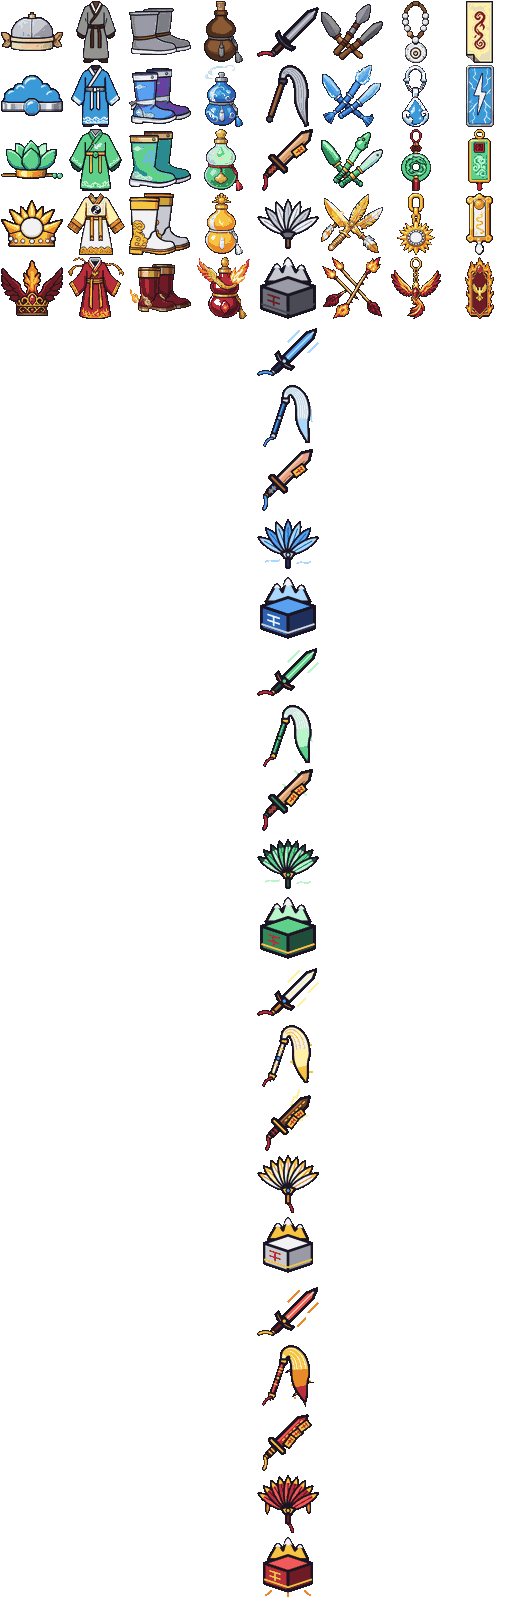
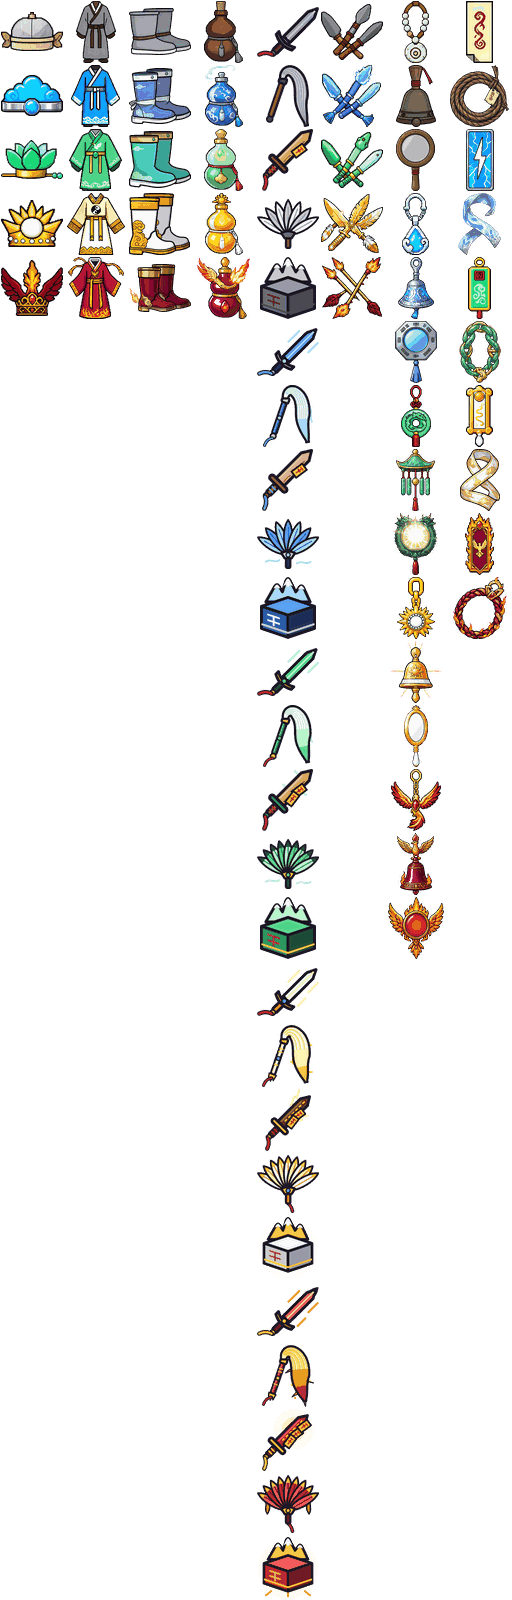
Bells, binding ropes and mirrors as Accessory and Charm families (#45)
- Accessories roll a family as well as a grade: Pendant, Bell or Mirror.
  Charms roll Talisman or Binding Rope. The family changes only the name
  and icon; stats, affixes, slots and drop rates are unchanged, and the
  roll draws the same random numbers as before.
- 15 new icons in the source art style, one per new name.
- The icon atlas keeps the source art: it is saved in 256 colours picked
  from the icons themselves instead of the shared palette, which had
  posterized every item icon. The whole atlas is rebuilt from sources.
- Old saves load with their current names; retired names still become
  the Pendant or Talisman of their grade. New names load only on their
  own type and grade; look-alike and hostile names are rejected.
- docs/design.md §6 and §14 updated.

diff --git a/src/core/loot.test.ts b/src/core/loot.test.ts
@@ -170,26 +170,42 @@ describe('rollItem', () => {
     );
   });
 
-  it('names every type but weapons by grade: one name each, in grade order', () => {
-    const types = [
-      'head',
-      'chest',
-      'boots',
-      'attachment',
-      'sideArm',
-      'accessory',
-      'charm',
-    ] as const;
+  it('names every type but weapons by grade, one name per family, in grade order', () => {
+    const families = {
+      head: 1,
+      chest: 1,
+      boots: 1,
+      attachment: 1,
+      sideArm: 1,
+      accessory: 3,
+      charm: 2,
+    } as const;
     // With weapons, that is every type.
-    expect([...types, 'weapon'].sort()).toEqual(Object.keys(SLOTS).sort());
-    for (const slot of types) {
-      for (const g of GRADE_IDS) expect(namesFor(slot, g)).toHaveLength(1);
+    expect([...Object.keys(families), 'weapon'].sort()).toEqual(Object.keys(SLOTS).sort());
+    for (const [slot, n] of Object.entries(families) as [keyof typeof families, number][]) {
+      for (const g of GRADE_IDS) expect(namesFor(slot, g)).toHaveLength(n);
       expect(SLOTS[slot].names).toEqual(GRADE_IDS.flatMap((g) => namesFor(slot, g)));
+      expect(new Set(SLOTS[slot].names).size).toBe(n * GRADE_IDS.length);
+      // Seeded: every grade rolls every one of its names, and only those.
       for (const g of GRADE_IDS) {
         const seen = MANY.filter((i) => i.slot === slot && i.grade === g).map((i) => i.name);
         expect(seen.length, `${slot} ${g}`).toBeGreaterThan(0);
-        expect(new Set(seen)).toEqual(new Set(namesFor(slot, g)));
+        expect(new Set(seen), `${slot} ${g}`).toEqual(new Set(namesFor(slot, g)));
       }
+    }
+  });
+
+  it('gives each grade one Accessory and one Charm of each family, in family order', () => {
+    const accessory = [/ (Pendant|Amulet)$/, / (Bell|Wind Chime)$/, / Mirror$/];
+    const charm = [
+      / (Talisman|Seal)$/,
+      /(Binding Cord|Silk Sash|Binding Chain|Wrapping Sash|Binding Rope)$/,
+    ];
+    for (const g of GRADE_IDS) {
+      const a = namesFor('accessory', g);
+      accessory.forEach((family, i) => expect(a[i], `${g} ${i}`).toMatch(family));
+      const c = namesFor('charm', g);
+      charm.forEach((family, i) => expect(c[i], `${g} ${i}`).toMatch(family));
     }
   });
 
@@ -218,17 +234,32 @@ describe('rollItem', () => {
       ],
       accessory: [
         'Bone Bead Pendant',
+        'Bronze Clapper Bell',
+        'Bronze Hand Mirror',
         'Azure Spirit Pendant',
+        'Azure Soul-Scattering Bell',
+        'Azure Bagua Mirror',
         'Jade Dragon Pendant',
+        'Jade Wind Chime',
+        'Jade Demon-Revealing Mirror',
         'Golden Sun Amulet',
+        'Golden Sun Bell',
+        'Golden Sun Mirror',
         'Phoenix Flame Amulet',
+        'Phoenix Flame Bell',
+        'Phoenix Flame Mirror',
       ],
       charm: [
         'Paper Ward Talisman',
+        'Hempen Binding Cord',
         'Azure Thunder Talisman',
+        'Azure Silk Sash',
         'Jade Seal Talisman',
+        'Jade Dragon-Binding Chain',
         'Golden Heaven Seal',
+        'Golden Heaven-Wrapping Sash',
         'Phoenix Flame Talisman',
+        'Phoenix Flame Binding Rope',
       ],
     };
     for (const [slot, names] of Object.entries(table)) {

diff --git a/src/storage/save.test.ts b/src/storage/save.test.ts
@@ -606,6 +606,56 @@ describe('rejects', () => {
       expect(eq[at]).toEqual(gear(slot, 'earth', FIRST[slot]?.earth as string));
     });
 
+    // The Bell, Mirror and Binding Rope families (#45): each name loads on its own grade only.
+    const FAMILIES: [string, string, string][] = [
+      ['accessory', 'mortal', 'Bronze Clapper Bell'],
+      ['accessory', 'mortal', 'Bronze Hand Mirror'],
+      ['accessory', 'spirit', 'Azure Soul-Scattering Bell'],
+      ['accessory', 'spirit', 'Azure Bagua Mirror'],
+      ['accessory', 'earth', 'Jade Wind Chime'],
+      ['accessory', 'earth', 'Jade Demon-Revealing Mirror'],
+      ['accessory', 'heaven', 'Golden Sun Bell'],
+      ['accessory', 'heaven', 'Golden Sun Mirror'],
+      ['accessory', 'immortal', 'Phoenix Flame Bell'],
+      ['accessory', 'immortal', 'Phoenix Flame Mirror'],
+      ['charm', 'mortal', 'Hempen Binding Cord'],
+      ['charm', 'spirit', 'Azure Silk Sash'],
+      ['charm', 'earth', 'Jade Dragon-Binding Chain'],
+      ['charm', 'heaven', 'Golden Heaven-Wrapping Sash'],
+      ['charm', 'immortal', 'Phoenix Flame Binding Rope'],
+    ];
+
+    it.each(FAMILIES)('loads a %s of %s grade named %s unchanged', (slot, grade, name) => {
+      const loaded = load(inBag(gear(slot, grade, name)));
+      expect(loaded?.state.inventory[0]).toEqual(gear(slot, grade, name));
+    });
+
+    it.each(FAMILIES)('rejects a %s from another grade than %s named %s', (slot, grade, name) => {
+      const other = grade === 'mortal' ? 'spirit' : 'mortal';
+      expect(load(inBag(gear(slot, other, name)))).toBeNull();
+    });
+
+    it.each(FAMILIES)(
+      'rejects a %s of %s grade named %s on the other type',
+      (slot, grade, name) => {
+        const wrong = slot === 'accessory' ? 'charm' : 'accessory';
+        expect(load(inBag(gear(wrong, grade, name)))).toBeNull();
+      },
+    );
+
+    it.each([
+      ['a missing hyphen', 'accessory', 'spirit', 'Azure Soul Scattering Bell'],
+      ['a Latin look-alike (I for l)', 'accessory', 'mortal', 'Bronze Clapper BeIl'],
+      ['a Cyrillic look-alike', 'accessory', 'earth', 'J\u0430de Wind Chime'],
+      ['a zero-width space', 'charm', 'earth', 'Jade Dragon-Binding\u200bChain'],
+      ['a bidi override', 'accessory', 'heaven', 'Golden Sun \u202eMirror'],
+      ['other casing', 'charm', 'immortal', 'phoenix flame binding rope'],
+      ['padding', 'charm', 'mortal', 'Hempen Binding Cord '],
+      ['a family with no such grade name', 'charm', 'mortal', 'Bronze Binding Rope'],
+    ])('rejects a family name with %s', (_, slot, grade, name) => {
+      expect(load(inBag(gear(slot, grade, name)))).toBeNull();
+    });
+
     it('loads a side arm item, an equipped side arm and a side arm filter unchanged', () => {
       const save = inBag(gear('sideArm', 'mortal', 'Iron Throwing Darts'));
       (cult(save).equipment as J).sideArm = gear('sideArm', 'spirit', 'Azure Frost Darts');

diff --git a/src/ui/art.test.ts b/src/ui/art.test.ts
@@ -143,15 +143,39 @@ describe('iconCell', () => {
     expect(manifest.icons.some((i) => i.files)).toBe(false);
   });
 
-  it('draws every other type from one source-style generation per grade, in grade order', () => {
+  it('draws every other type from one source-style generation per name, in name order', () => {
     const grades = ['mortal', 'spirit', 'earth', 'heaven', 'immortal'];
+    // Each family's file prefix, in the order loot.ts lists the families.
+    const families: Record<string, string[]> = {
+      accessory: ['accessory', 'accessory-bell', 'accessory-mirror'],
+      charm: ['charm', 'charm-rope'],
+    };
     for (const entry of manifest.icons) {
       if (entry.id === 'weapon') continue;
-      expect(entry.sources, entry.id).toEqual(grades.map((g) => `items/${entry.id}-${g}.jpg`));
-      expect(SLOTS[entry.id].names, entry.id).toHaveLength(grades.length);
+      const prefixes = families[entry.id] ?? [entry.id];
+      expect(entry.sources, entry.id).toEqual(
+        grades.flatMap((g) => prefixes.map((f) => `items/${f}-${g}.jpg`)),
+      );
+      expect(SLOTS[entry.id].names, entry.id).toHaveLength(grades.length * prefixes.length);
     }
+    // 25 weapons, 15 accessories, 10 charms and 5 of each of the other five types.
+    const icons = manifest.icons.reduce((n, i) => n + (i.sources ?? i.renders ?? []).length, 0);
+    expect(icons).toBe(25 + 15 + 10 + 5 * 5);
     // No recoloured pixel-pack icon is left in the atlas.
     expect(manifest.icons.some((i) => i.materials ?? i.family)).toBe(false);
+  });
+
+  it('puts each Accessory and Charm family name in its own row', () => {
+    const at = (slot: 'accessory' | 'charm', name: string) => iconCell({ slot, name } as Item);
+    const acc = ICON_COLUMNS.indexOf('accessory');
+    const charm = ICON_COLUMNS.indexOf('charm');
+    expect(at('accessory', 'Bone Bead Pendant')).toEqual({ col: acc, row: 0 });
+    expect(at('accessory', 'Bronze Clapper Bell')).toEqual({ col: acc, row: 1 });
+    expect(at('accessory', 'Bronze Hand Mirror')).toEqual({ col: acc, row: 2 });
+    expect(at('accessory', 'Phoenix Flame Mirror')).toEqual({ col: acc, row: 14 });
+    expect(at('charm', 'Paper Ward Talisman')).toEqual({ col: charm, row: 0 });
+    expect(at('charm', 'Hempen Binding Cord')).toEqual({ col: charm, row: 1 });
+    expect(at('charm', 'Phoenix Flame Binding Rope')).toEqual({ col: charm, row: 9 });
   });
 
   it('puts each Hidden Weapon name in its grade row of the side arm column', () => {

diff --git a/src/core/loot.ts b/src/core/loot.ts
@@ -162,22 +162,28 @@ const ATTACHMENT_NAMES: Readonly<Record<GradeId, readonly string[]>> = {
   immortal: ['Phoenix Flame Gourd'],
 };
 
-/** Pendant and amulet names by grade. */
+/**
+ * Accessory names by grade in three families, always listed Pendant, Bell,
+ * Mirror. The family changes only the name and icon.
+ */
 const ACCESSORY_NAMES: Readonly<Record<GradeId, readonly string[]>> = {
-  mortal: ['Bone Bead Pendant'],
-  spirit: ['Azure Spirit Pendant'],
-  earth: ['Jade Dragon Pendant'],
-  heaven: ['Golden Sun Amulet'],
-  immortal: ['Phoenix Flame Amulet'],
+  mortal: ['Bone Bead Pendant', 'Bronze Clapper Bell', 'Bronze Hand Mirror'],
+  spirit: ['Azure Spirit Pendant', 'Azure Soul-Scattering Bell', 'Azure Bagua Mirror'],
+  earth: ['Jade Dragon Pendant', 'Jade Wind Chime', 'Jade Demon-Revealing Mirror'],
+  heaven: ['Golden Sun Amulet', 'Golden Sun Bell', 'Golden Sun Mirror'],
+  immortal: ['Phoenix Flame Amulet', 'Phoenix Flame Bell', 'Phoenix Flame Mirror'],
 };
 
-/** Talisman and seal names by grade. */
+/**
+ * Charm names by grade in two families, always listed Talisman, Binding Rope.
+ * The family changes only the name and icon.
+ */
 const CHARM_NAMES: Readonly<Record<GradeId, readonly string[]>> = {
-  mortal: ['Paper Ward Talisman'],
-  spirit: ['Azure Thunder Talisman'],
-  earth: ['Jade Seal Talisman'],
-  heaven: ['Golden Heaven Seal'],
-  immortal: ['Phoenix Flame Talisman'],
+  mortal: ['Paper Ward Talisman', 'Hempen Binding Cord'],
+  spirit: ['Azure Thunder Talisman', 'Azure Silk Sash'],
+  earth: ['Jade Seal Talisman', 'Jade Dragon-Binding Chain'],
+  heaven: ['Golden Heaven Seal', 'Golden Heaven-Wrapping Sash'],
+  immortal: ['Phoenix Flame Talisman', 'Phoenix Flame Binding Rope'],
 };
 
 /**

diff --git a/tools/art/build.py b/tools/art/build.py
@@ -39,7 +39,8 @@ Manifest knobs (every one optional unless marked; unknown keys stop the build):
               under art-src/ per item name, e.g. from render-weapons.mjs: no
               cut-out, cropped to its shape and drawn smooth at full cell
               size), plus seed, prompt, source (provenance only).
-              Atlas cells are icon_size x icon_scale px.
+              Atlas cells are icon_size x icon_scale px; the atlas is saved
+              in 256 colours of its own, not the shared palette.
 """
 
 import json
@@ -390,6 +391,13 @@ def indexed(img: Image.Image) -> Image.Image:
     return p
 
 
+def save_smooth(img: Image.Image, path: Path) -> None:
+    """The item icons as a PNG of 256 colours picked from the icons themselves,
+    not the shared palette: close to their source art at a fifth of the size of
+    full colour."""
+    img.convert("RGBA").quantize(256, method=Image.Quantize.FASTOCTREE).save(path, optimize=True)
+
+
 def save(img: Image.Image, path: Path) -> None:
     """An indexed PNG: palette colours plus one transparent entry, the smallest file."""
     (img if img.mode == "P" else indexed(img)).save(path, optimize=True, transparency=len(ALL))
@@ -503,14 +511,13 @@ def icon_atlas(columns: list[str] | None = None) -> Image.Image:
 
 def kept_columns(columns: list[str]) -> Image.Image:
     """The atlas with only `columns` rebuilt: every other column is copied from
-    the shipped icons.png index for index, so its pixels stay exactly as they
-    were (quantizing them again could move a colour to a near one)."""
+    the shipped icons.png. The whole atlas picks its 256 colours again on save,
+    so a kept column's colours can move slightly; rebuild them all with
+    `icons` when their sources are at hand."""
     cell = MANIFEST["icon_size"] * MANIFEST["icon_scale"]
     entries = MANIFEST["icons"]
-    old = Image.open(OUT / "icons.png")
-    out = indexed(icon_atlas(columns))
-    if old.mode != "P" or old.getpalette() != out.getpalette() or old.info.get("transparency") != len(ALL):
-        sys.exit("icons.png is not indexed to the current palette: rebuild the whole atlas")
+    old = Image.open(OUT / "icons.png").convert("RGBA")
+    out = icon_atlas(columns)
     if old.width != out.width or old.height % cell:
         sys.exit(f"icons.png is {old.size}, not {len(entries)} columns of {cell} px cells")
     for c, e in enumerate(entries):
@@ -603,9 +610,9 @@ def main() -> None:
     if not only or "paperdoll" in only:
         save(paperdoll(), OUT / "paperdoll.png")
     if not only or "icons" in only:
-        save(icon_atlas(), OUT / "icons.png")
+        save_smooth(icon_atlas(), OUT / "icons.png")
     elif columns:
-        save(kept_columns(columns), OUT / "icons.png")
+        save_smooth(kept_columns(columns), OUT / "icons.png")
     for bg in MANIFEST["backgrounds"]:
         if (not only or bg["id"] in only) and (SRC / f"{bg['id']}.jpg").exists():
             save(background(bg), OUT / f"bg-{bg['id']}.png")

diff --git a/docs/design.md b/docs/design.md
@@ -111,10 +111,10 @@ Every drop is generated from a seeded roll.
 - **Item level** = the floor it dropped on. It caps every roll.
 - **Base stat:** each item type rolls in a range (e.g. an Iron Flying Sword
   weapon rolls 8–14 damage at item level 10).
-- **Every other item's name follows the grade,** one name per grade, so a
-  better drop looks better (each name has its own icon, coloured like its
-  grade: Mortal grey, Spirit azure, Earth jade, Heaven white and gold,
-  Immortal crimson and gold):
+- **Every other item's name follows the grade,** one name per grade (per
+  family for Accessories and Charms, below), so a better drop looks better
+  (each name has its own icon, coloured like its grade: Mortal grey, Spirit
+  azure, Earth jade, Heaven white and gold, Immortal crimson and gold):
 
 | Grade | Head | Chest | Boots | Attachment |
 |---|---|---|---|---|
@@ -124,13 +124,35 @@ Every drop is generated from a seeded roll.
 | Heaven | Golden Sun Crown | Golden Elder Robe | Golden Cloud Boots | Golden Nectar Gourd |
 | Immortal | Phoenix Flame Crown | Phoenix Flame Robe | Phoenix Flame Boots | Phoenix Flame Gourd |
 
-| Grade | Hidden Weapon | Accessory | Charm |
+| Grade | Hidden Weapon |
+|---|---|
+| Mortal | Iron Throwing Darts |
+| Spirit | Azure Frost Darts |
+| Earth | Jade Viper Darts |
+| Heaven | Golden Crow Flying Knives |
+| Immortal | Phoenix Flame Darts |
+
+- **Accessories and Charms come in families** like weapons: each grade drops
+  one of each family. Accessories are Pendants, Bells or Mirrors; Charms are
+  Talismans or Binding Ropes. The family only changes the name and icon:
+  every Accessory rolls the same base stat and affixes, and so does every
+  Charm.
+
+| Grade | Pendant | Bell | Mirror |
 |---|---|---|---|
-| Mortal | Iron Throwing Darts | Bone Bead Pendant | Paper Ward Talisman |
-| Spirit | Azure Frost Darts | Azure Spirit Pendant | Azure Thunder Talisman |
-| Earth | Jade Viper Darts | Jade Dragon Pendant | Jade Seal Talisman |
-| Heaven | Golden Crow Flying Knives | Golden Sun Amulet | Golden Heaven Seal |
-| Immortal | Phoenix Flame Darts | Phoenix Flame Amulet | Phoenix Flame Talisman |
+| Mortal | Bone Bead Pendant | Bronze Clapper Bell | Bronze Hand Mirror |
+| Spirit | Azure Spirit Pendant | Azure Soul-Scattering Bell | Azure Bagua Mirror |
+| Earth | Jade Dragon Pendant | Jade Wind Chime | Jade Demon-Revealing Mirror |
+| Heaven | Golden Sun Amulet | Golden Sun Bell | Golden Sun Mirror |
+| Immortal | Phoenix Flame Amulet | Phoenix Flame Bell | Phoenix Flame Mirror |
+
+| Grade | Talisman | Binding Rope |
+|---|---|---|
+| Mortal | Paper Ward Talisman | Hempen Binding Cord |
+| Spirit | Azure Thunder Talisman | Azure Silk Sash |
+| Earth | Jade Seal Talisman | Jade Dragon-Binding Chain |
+| Heaven | Golden Heaven Seal | Golden Heaven-Wrapping Sash |
+| Immortal | Phoenix Flame Talisman | Phoenix Flame Binding Rope |
 
 - **Weapons are a Taoist cultivator's magic tools,** in five families. Each
   grade drops one of each family, and the material gets richer with the grade
@@ -157,7 +179,8 @@ Every drop is generated from a seeded roll.
   rejected. A Head, Hidden Weapon, Attachment, Accessory or Charm with a name
   from before names followed the grade (the office names, e.g. Thinking Cap,
   Stapler Dagger, Coffee Gourd, Lanyard Pendant, Sticky-Note Talisman) loads as
-  the name of its type and grade; on another type it is rejected.
+  the first name of its type and grade (a Pendant or Talisman for Accessories
+  and Charms); on another type it is rejected.
 
 - **Grades (rarity) and affix count:**
 
@@ -311,9 +334,9 @@ the contrast: a dull spreadsheet with a vivid cultivation fight in the middle.
   city windows at night, a boardroom above the clouds. Dimmed so the fighters
   stay the brightest thing in the strip.
 - **Item icons:** one atlas cell per item name, 64×64, shown at 32×32 (sharp
-  on high-density screens). Weapons, robes and boots have their own drawn icon
-  for each name; the other types have one drawn icon each, and each name is a
-  colour swap of it. The grade stays on the cell border and its initial, never
+  on high-density screens). Every item name has its own drawn icon, kept close
+  to its source art (256 colours picked from the icons themselves, not the
+  shared palette). The grade stays on the cell border and its initial, never
   on the icon alone.
 - **Paper doll:** a 64×80 pixel-art figure at 4×, the slots placed where they
   are worn.
@@ -362,13 +385,15 @@ Grade is also written as text, never shown by colour alone.
 - Concept art is generated with an image model to explore direction; it is
   reference only and never shipped.
 - Shipped art is generated per asset, then cleaned to its final pixel size and
-  the shared palette by `tools/art/build.py` (prompts and seeds in
-  `tools/art/manifest.json`; the generated sources are not committed). No
-  commercial characters, logos or brand marks in any asset. All of it is
-  served from the site itself and stays under 1 MB.
+  the shared palette (item icons: their own 256 colours) by
+  `tools/art/build.py` (prompts and seeds in `tools/art/manifest.json`; the
+  generated sources are not committed). No commercial characters, logos or
+  brand marks in any asset. All of it is served from the site itself and
+  stays under 1 MB.
 - Weapon icons are drawn by hand as SVG in `tools/art/weapons.mjs`, so their
   editable sources are committed. `node tools/art/render-weapons.mjs` renders
   them to transparent PNGs in `art-src/weapons/`, and
   `python3 tools/art/build.py icons:weapon` fits them into the atlas's weapon
-  column, copying every other column from the shipped atlas unchanged (their
-  sources are not always at hand).
+  column, copying every other column from the shipped atlas (their sources
+  are not always at hand; the atlas picks its 256 colours again on save, so
+  their colours can move slightly).
